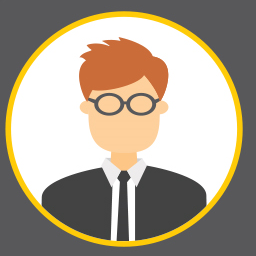
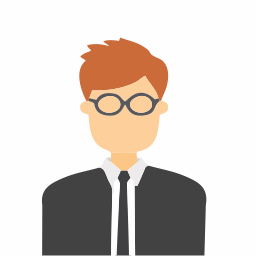
Atualizações na página do curriculo.
Modificações no html, css e imagens.

diff --git a/example.html b/example.html
@@ -9,6 +9,7 @@
 
     <title>Personal Page</title>
     <link rel="stylesheet" href="css/bootstrap.min.css" type="text/css">
+    <link rel="stylesheet" href="https://cdnjs.cloudflare.com/ajax/libs/font-awesome/4.7.0/css/font-awesome.min.css">
     <link rel="stylesheet" href="css/main.css" type="text/css">
 
   </head>
@@ -35,7 +36,9 @@
       <div class="row">
         <!-- SIDEBAR -->
         <div class="col-xl-3 col-lg-4 col-md-12 col-sm-12 sidebar">
-          <div class="skills"></div>
+          <div class="skills">
+            <label>Skill</label>
+          </div>
           <br>
           <label>Skill 01</label><br>
           <div class="progress">
@@ -66,7 +69,9 @@
             <div class="progress-bar" role="progressbar" style="width: 90%" aria-valuenow="90" aria-valuemin="0" aria-valuemax="100"></div>
           </div>
           <br>
-          <div class="languages"></div>
+          <div class="languages">
+            <label class="label-lateral">Languages</label>
+          </div>
           <br>
           <label>English</label><br>
           <div class="progress">
@@ -81,8 +86,11 @@
             <div class="progress-bar" role="progressbar" style="width: 80%" aria-valuenow="80" aria-valuemin="0" aria-valuemax="100"></div>
           </div>
           <br><br><br>
-          <div class="contact"></div>
+          
           <div class="contato">
+            <div class="contact">
+              <div>Contact</div>
+            </div>
             <br><label>+123 456 789</label>
             <br><label>Jhondoepro@freepik.com</label>
             <br><label>1234 Park Ave 14XX, East 4432</label>
@@ -92,15 +100,15 @@
         <!-- CENTRAL BAR -->
         <div class="col-xl-2 col-lg-2 col-md-3 col-sm-3 col-3 centralbar">
           <br>
-          <div class="work"></div><br>
+          <div class="icons"><i class="fa fa-briefcase" aria-hidden="true"></i></div><br>
           <label>2013 - 2014</label>
           <br><br><br><br><br><br><br>
           <label>2015 - 2017</label>
           <br><br><br><br><br><br><br>
-          <div class="graduate"></div><br>
+          <div class="icons"><i class="fa fa-graduation-cap" aria-hidden="true"></i></div><br>
           <label>2007 - 2010</label>
           <br><br><br><br><br><br><br>
-          <div class="awards"></div>
+          <div class="icons"><i class="fa fa-trophy" aria-hidden="true"></i></div>
         </div>
         <!-- CONTEUDO -->
         <div class="col-xl-7 col-lg-6 col-md-9 col-sm-9 col-9 content">

diff --git a/css/main.css b/css/main.css
@@ -14,6 +14,8 @@ body {
   width: 256px;
   height: 256px;
   margin: 0 auto;
+  border-radius: 50%;
+  border: 5px solid var(--amarelo);
   background: url(../img/avatar.png);
 }
 
@@ -42,17 +44,40 @@ h1 + h3 {
   background: url(../img/skill.png);
 }
 
+.skills label{
+  padding-left: 120px !important;
+  padding-top: 25px;
+  font-weight: bold;
+  font-size: 20px;
+  color: var(--preto);
+}
+
 .languages {
   width: 280px;
   height: 75px;
   background: url(../img/languages.png);
 }
 
+.languages label {
+  padding-left: 105px !important;
+  padding-top: 20px;
+  font-size: 20px;
+  font-weight: bold;
+  color: var(--preto);
+}
+
 .contact {
   width: 285px;
   height: 30px;
   margin: 0 auto;
-  background: url(../img/contact.png);
+}
+
+.contact div {
+  background: var(--preto);
+  color: var(--cinza);
+  border-radius: 0px 0px 50px 50px;
+  margin: 0px 50px 0px 50px;
+  font-size: 20px;
 }
 
 .sidebar {
@@ -89,25 +114,16 @@ h1 + h3 {
 
 /*******  CENTRALBAR  *******/
 
-.work {
+.icons {
   width: 64px;
   height: 64px;
   margin: 0 auto;
-  background: url(../img/badge-work.png);
-}
-
-.graduate {
-  width: 64px;
-  height: 64px;
-  margin: 0 auto;
-  background: url(../img/badge-graduation.png);
-}
-
-.awards {
-  width: 64px;
-  height: 64px;
-  margin: 0 auto;
-  background: url(../img/badge-awards.png);
+  text-align: center;
+  font-size: 30px;
+  color: var(--cinza);
+  background: var(--preto);
+  border-radius: 50%;
+  padding: 10px;
 }
 
 .centralbar {
